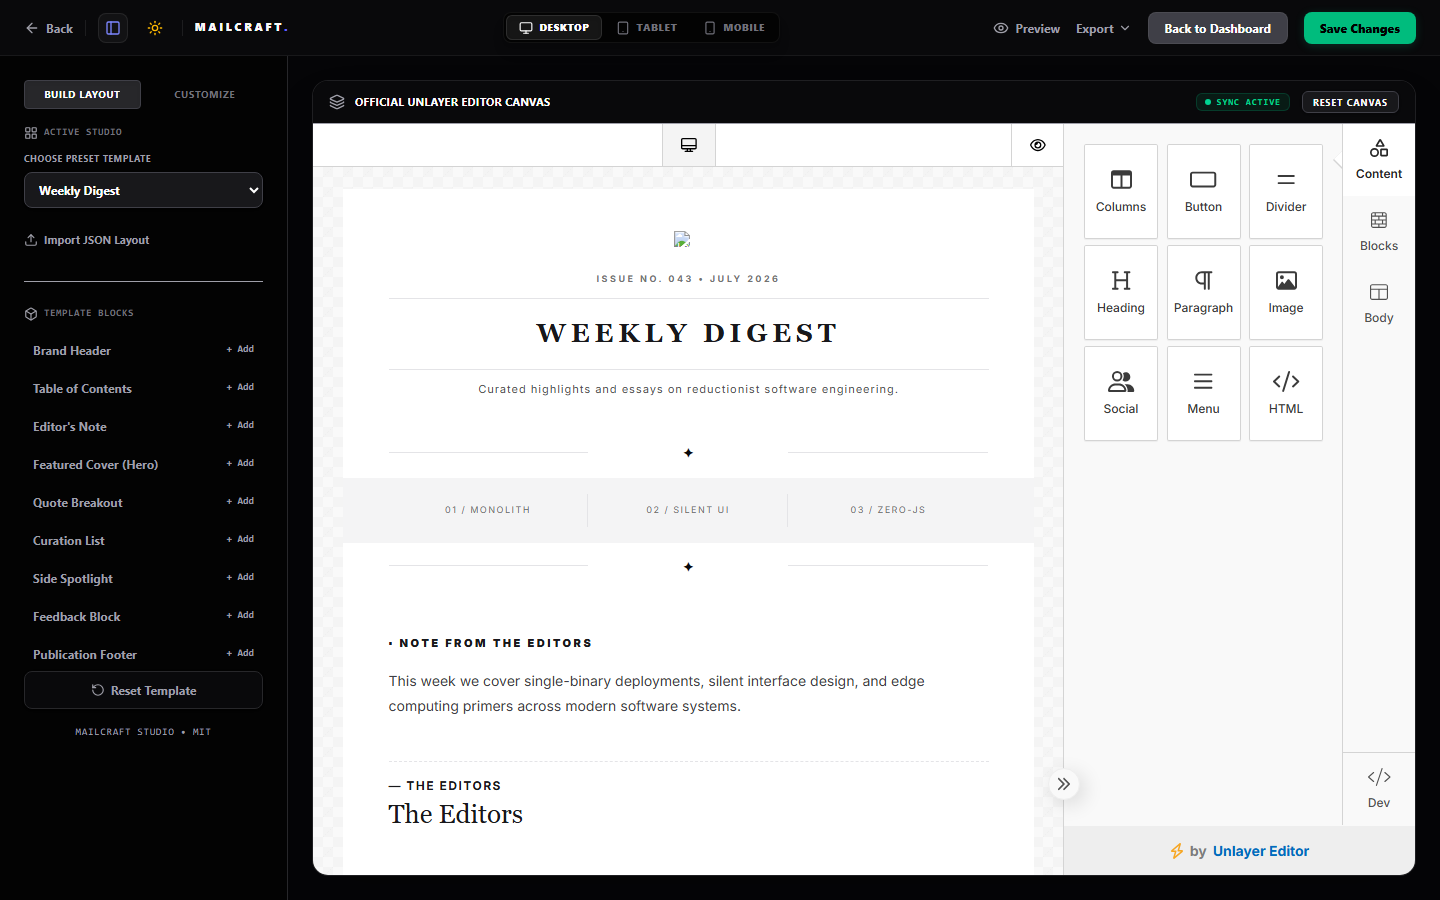
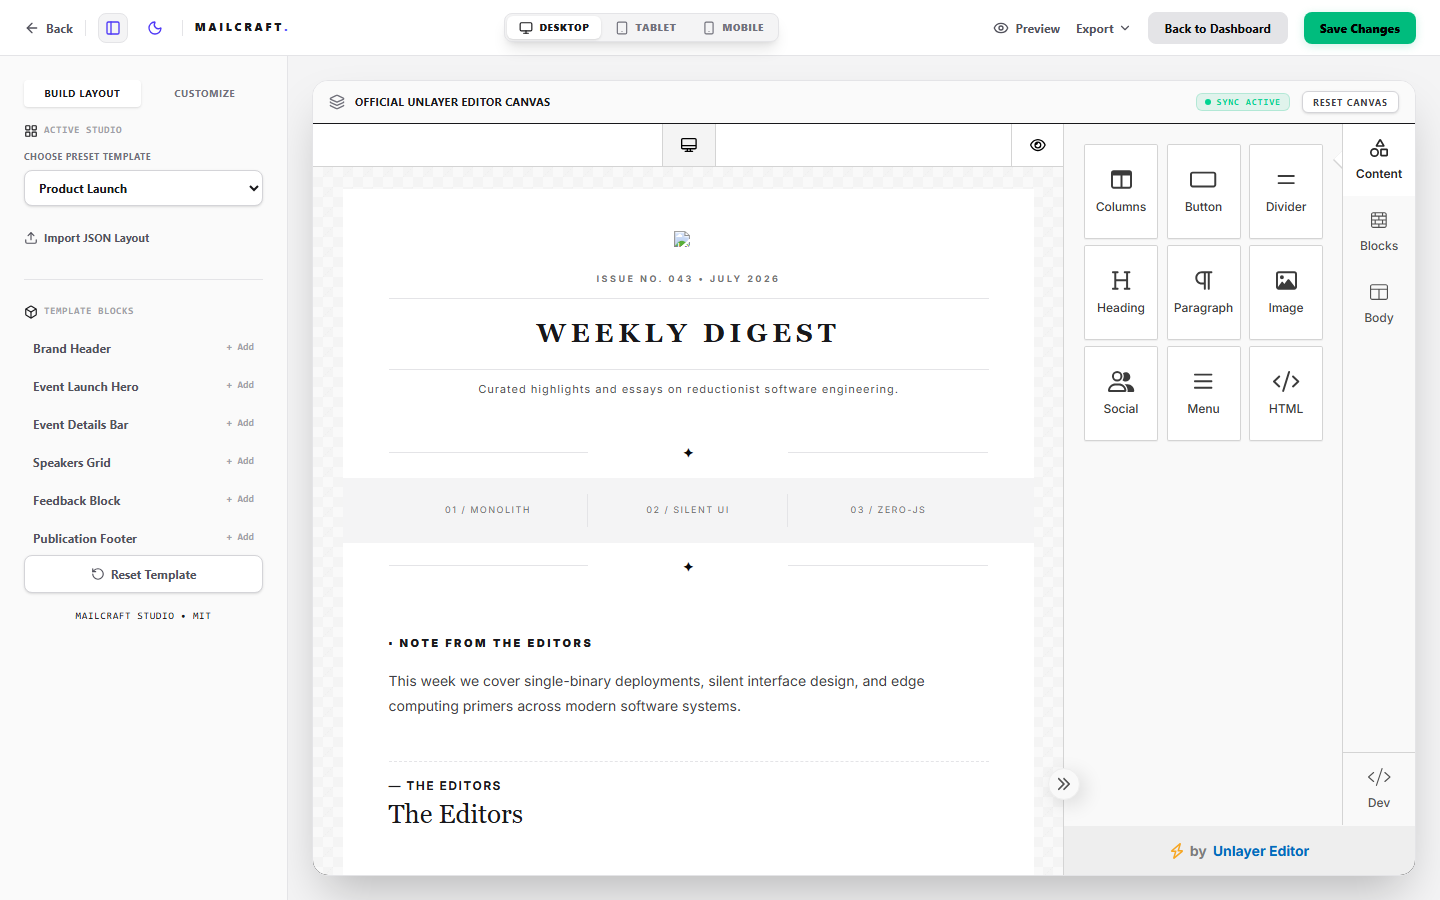
docs: add light/dark mode snapshots and 5 specific template previews to README

diff --git a/scripts/capture-screenshots.js b/scripts/capture-screenshots.js
@@ -3,7 +3,7 @@ import { mkdir } from 'fs/promises';
 import { join } from 'path';
 
 async function run() {
-  console.log('🚀 Starting screenshot capture session...');
+  console.log('🚀 Starting screenshot capture session for Light/Dark modes & 5 template presets...');
   
   // Ensure public/assets directory exists
   await mkdir('public/assets', { recursive: true });
@@ -27,48 +27,107 @@ async function run() {
   }
   
   // 1. Capture landing hero in Dark Mode
-  console.log('📸 Capturing landing-hero.png (Dark Mode)...');
-  await page.screenshot({ path: 'public/assets/landing-hero.png' });
+  console.log('📸 Capturing landing-hero-dark.png...');
+  await page.screenshot({ path: 'public/assets/landing-hero-dark.png' });
   
-  // 2. Scroll to presets section
+  // 2. Toggle to Light Mode on Landing Page
+  console.log('🌓 Toggling to Light Mode...');
+  const themeToggle = page.locator('button[title="Switch to Light Mode"]').first();
+  if (await themeToggle.count() > 0) {
+    await themeToggle.click();
+    await page.waitForTimeout(600);
+  }
+  
+  // 3. Capture landing hero in Light Mode
+  console.log('📸 Capturing landing-hero-light.png...');
+  await page.screenshot({ path: 'public/assets/landing-hero-light.png' });
+  
+  // 4. Scroll to presets section
   console.log('⬇ Scrolling to presets catalog...');
   const gallery = page.locator('#gallery');
   if (await gallery.count() > 0) {
     await gallery.scrollIntoViewIfNeeded();
     await page.waitForTimeout(600);
-    console.log('📸 Capturing landing-presets.png...');
-    await page.screenshot({ path: 'public/assets/landing-presets.png' });
+    console.log('📸 Capturing landing-presets-light.png...');
+    await page.screenshot({ path: 'public/assets/landing-presets-light.png' });
   }
   
-  // 3. Launch playground via Open Studio
+  // 5. Switch back to Dark Mode
+  console.log('🌓 Toggling back to Dark Mode...');
+  const darkToggle = page.locator('button[title="Switch to Dark Mode"]').first();
+  if (await darkToggle.count() > 0) {
+    await darkToggle.click();
+    await page.waitForTimeout(600);
+  }
+  console.log('📸 Capturing landing-presets-dark.png...');
+  await page.screenshot({ path: 'public/assets/landing-presets-dark.png' });
+
+  // 6. Launch playground via Open Studio
   console.log('⚡ Launching workspace playground...');
   const openStudioBtn = page.getByRole('button', { name: 'Open Studio' });
   if (await openStudioBtn.count() > 0) {
     await openStudioBtn.click();
   } else {
-    // Fallback: Click first preset card
     const firstCard = page.locator('.group.flex.flex-col').first();
     await firstCard.click();
   }
   
-  await page.waitForTimeout(3500); // Wait for workspace canvas and iframe elements preview
+  await page.waitForTimeout(3500); // Wait for workspace and iframe previews
   
-  // Capture playground workspace
-  console.log('📸 Capturing workspace-split-view.png...');
-  await page.screenshot({ path: 'public/assets/workspace-split-view.png' });
+  // 7. Capture workspace split-view in Dark Mode
+  console.log('📸 Capturing workspace-split-view-dark.png...');
+  await page.screenshot({ path: 'public/assets/workspace-split-view-dark.png' });
   
-  // 4. Switch to Unlayer editor
+  // 8. Toggle workspace to Light Mode
+  console.log('🌓 Toggling workspace to Light Mode...');
+  const workspaceLightToggle = page.locator('button[title="Switch to Light Mode"]').first();
+  if (await workspaceLightToggle.count() > 0) {
+    await workspaceLightToggle.click();
+    await page.waitForTimeout(800);
+  }
+  
+  // 9. Capture workspace split-view in Light Mode
+  console.log('📸 Capturing workspace-split-view-light.png...');
+  await page.screenshot({ path: 'public/assets/workspace-split-view-light.png' });
+  
+  // 10. Capture 5 specific templates from the email client view
+  console.log('🔍 Locating select preset dropdown and template preview iframe...');
+  const selectDropdown = page.locator('select').first();
+  const emailIframe = page.locator('iframe[title="Dashboard Email View"]').first();
+  
+  if (await selectDropdown.count() > 0 && await emailIframe.count() > 0) {
+    const presetsToCapture = [
+      { id: 'weekly-digest', filename: 'template-weekly-digest.png' },
+      { id: 'founder-letter', filename: 'template-founder-letter.png' },
+      { id: 'new-collection', filename: 'template-new-collection.png' },
+      { id: 'flash-sale', filename: 'template-flash-sale.png' },
+      { id: 'product-launch', filename: 'template-product-launch.png' }
+    ];
+    
+    for (const preset of presetsToCapture) {
+      console.log(`📋 Selecting preset: ${preset.id}...`);
+      await selectDropdown.selectOption(preset.id);
+      await page.waitForTimeout(2000); // Wait for compilation and reload
+      
+      console.log(`📸 Capturing ${preset.filename} (Iframe element capture)...`);
+      await emailIframe.screenshot({ path: `public/assets/${preset.filename}` });
+    }
+  } else {
+    console.warn('⚠ Could not find select dropdown or preview iframe to capture templates.');
+  }
+  
+  // 11. Switch to Unlayer editor
   console.log('🎨 Switching to Unlayer Drag & Drop Editor...');
   const editorBtn = page.getByRole('button', { name: 'Launch Drag & Drop Editor' });
   if (await editorBtn.count() > 0) {
     await editorBtn.click();
-    await page.waitForTimeout(6000); // Wait for Unlayer editor to fetch scripts and load iframe canvas
+    await page.waitForTimeout(6000); // Wait for Unlayer editor iframe
     console.log('📸 Capturing unlayer-editor.png...');
     await page.screenshot({ path: 'public/assets/unlayer-editor.png' });
   }
   
   await browser.close();
-  console.log('✅ Screenshots captured and saved successfully in public/assets/!');
+  console.log('✅ All screenshots captured and saved successfully in public/assets/!');
 }
 
 run().catch(err => {

diff --git a/README.md b/README.md
@@ -4,7 +4,11 @@
 
 MailCraft is a premium, unified content workspace built for digital creators and engineering teams. It allows designers to describe template structures, custom color palettes, and marketing copy **once** in a single structured JSON object, instantly generating responsive, standards-compliant assets across multiple views: **Email Clients Layouts**, **Responsive Web Pages**, and **Print-Ready Documents**.
 
-![MailCraft Studio Landing Hero](public/assets/landing-hero.png)
+### 🌓 Dark Mode Hero
+![MailCraft Studio Landing Hero Dark](public/assets/landing-hero-dark.png)
+
+### 🌓 Light Mode Hero
+![MailCraft Studio Landing Hero Light](public/assets/landing-hero-light.png)
 
 ---
 
@@ -28,7 +32,26 @@ MailCraft addresses these challenges using the philosophy of **"One source of tr
 ### 🎨 Visual Theme Presets Catalog
 Designers can instantly swap the branding aesthetic using curated presets. The studio dynamically translates typography families, color variables, borders, button configurations, and shadow depths across all formats.
 
-![Designed for every brand style](public/assets/landing-presets.png)
+#### Dark Mode presets
+![Designed for every brand style (Dark)](public/assets/landing-presets-dark.png)
+
+#### Light Mode presets
+![Designed for every brand style (Light)](public/assets/landing-presets-light.png)
+
+### 🗂 Rich Template Presets (18 Layouts)
+While MailCraft provides a catalog of **18 professional templates** spanning Newsletter digests, E-commerce showcases, and Event launches, here are screenshots of 5 selected templates live-rendered by our rendering compiler:
+
+| **Weekly Digest (Editorial)** | **Founder Letter (Editorial)** |
+| :---: | :---: |
+| ![Weekly Digest](public/assets/template-weekly-digest.png) | ![Founder Letter](public/assets/template-founder-letter.png) |
+
+| **New Collection (Commerce)** | **Flash Sale (Commerce)** |
+| :---: | :---: |
+| ![New Collection](public/assets/template-new-collection.png) | ![Flash Sale](public/assets/template-flash-sale.png) |
+
+| **Product Launch (Event)** |
+| :---: |
+| ![Product Launch](public/assets/template-product-launch.png) |
 
 ---
 
@@ -39,7 +62,11 @@ Every template compiles in real time. The workspace provides complete control ov
 ### 💻 Split View Workspace Layout
 A split-screen workspace featuring the real-time **Sidebar Customizer** panel on the left and a live-updating **Format Preview Viewport** showing output channels simultaneously. Includes responsive mobile, tablet, and desktop simulations.
 
-![Workspace Split View Layout](public/assets/workspace-split-view.png)
+#### Dark Mode Workspace
+![Workspace Split View Layout (Dark)](public/assets/workspace-split-view-dark.png)
+
+#### Light Mode Workspace
+![Workspace Split View Layout (Light)](public/assets/workspace-split-view-light.png)
 
 ### 🎨 Unlayer Visual Builder Tab
 Need customized structural revisions? Switch tabs to launch the fully featured **Drag & Drop Editor** powered by Unlayer, loaded with your active design configuration.
